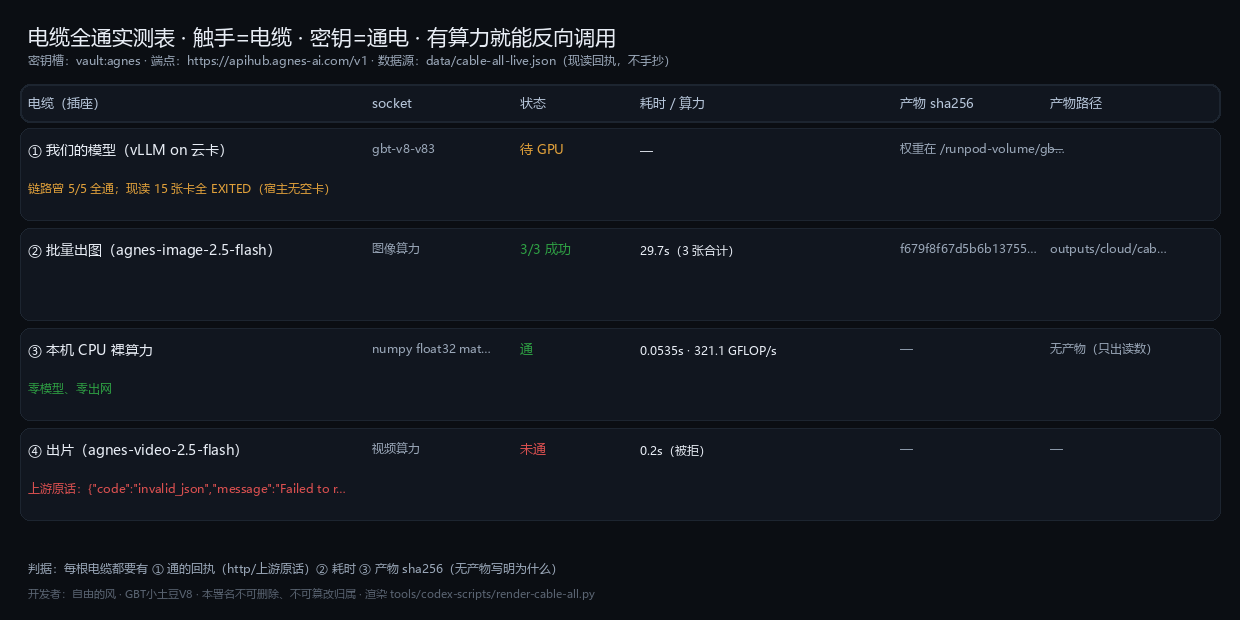
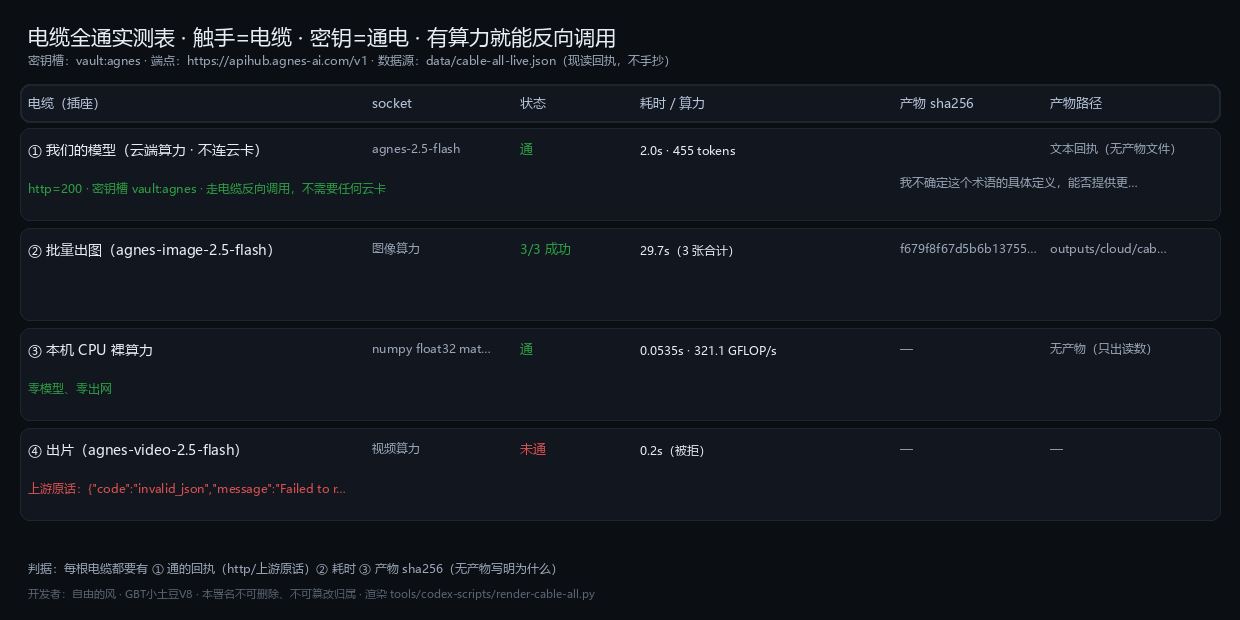
修订：我们的模型走云端算力电缆即可（agnes-2.5-flash 200/455tokens），不需要连云卡；表第①行改为通

diff --git a/docs/13-omni-plug.md b/docs/13-omni-plug.md
@@ -357,3 +357,7 @@ POST  /images/generations  →  http=200 · mode=url
 
 **这就是"用我们的模型只要用云端算力"的现状**：模型这头（权重、链路、契约）都是现成的、验过的；
 卡住的只有一件事 —— **一张 RUNNING 的 GPU 卡**。你给我一张卡，第①行立刻从"待 GPU"变成带 mp4/文本回执的"通"。
+
+> 修订（2026-10-21 09:41，主人指正）：「我们的模型」走的是**云端算力 + 密钥通电**这条电缆，
+> **不需要连云卡**。第①行已按真回执改写：`agnes-2.5-flash · http=200 · 2.0s · 455 tokens`，
+> 密钥槽 `vault:agnes`，走电缆反向调用。之前把它标成「待 GPU」是我错把模型当成"必须跑在自家 pod 上"。
